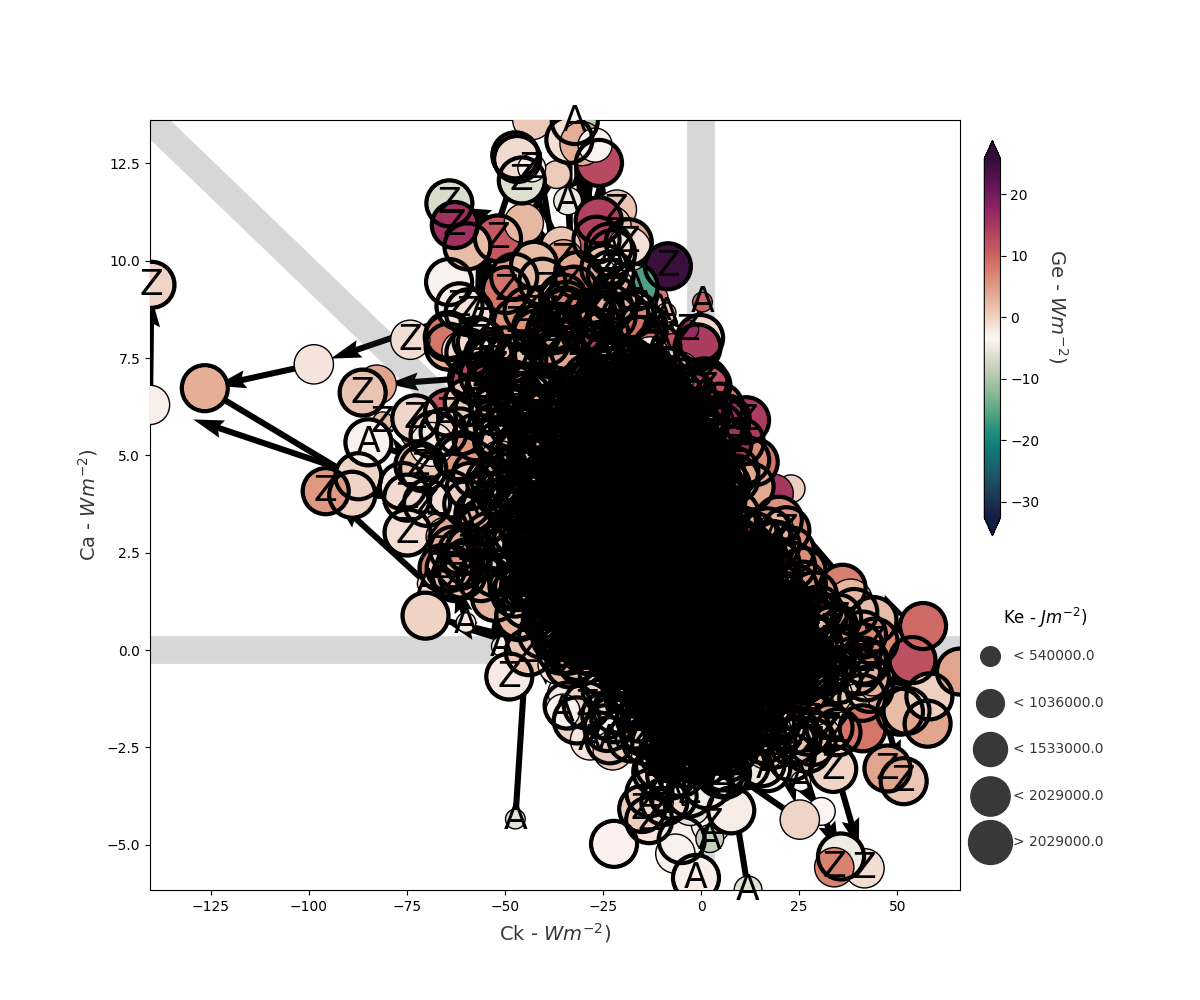
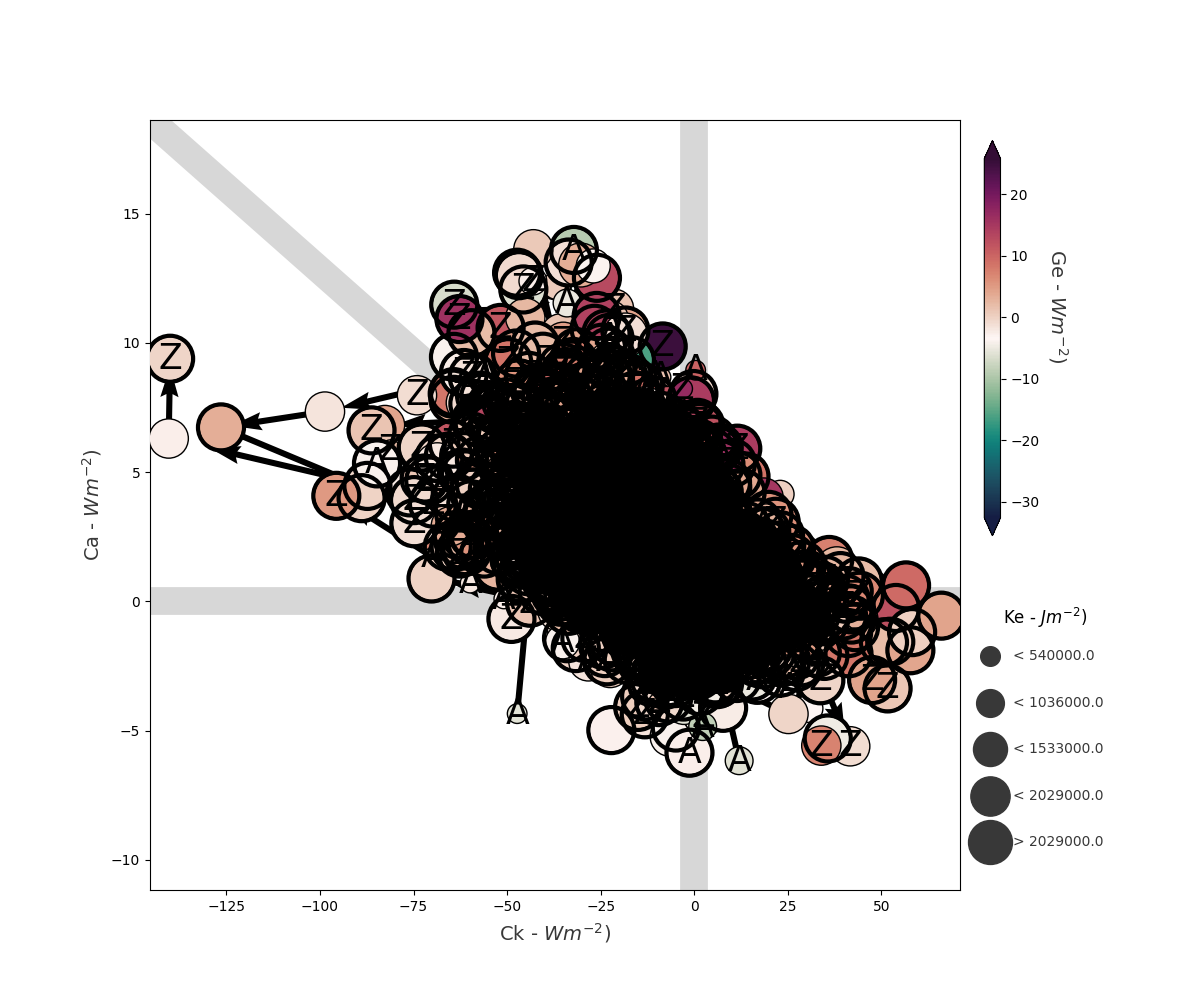
feat: plot lps for patterns

diff --git a/src_determine_patterns/plot_lps.py b/src_determine_patterns/plot_lps.py
@@ -6,13 +6,14 @@
 #    By: daniloceano <danilo.oceano@gmail.com>      +#+  +:+       +#+         #
 #                                                 +#+#+#+#+#+   +#+            #
 #    Created: 2024/02/27 17:45:49 by daniloceano       #+#    #+#              #
-#    Updated: 2024/03/01 11:50:52 by daniloceano      ###   ########.fr        #
+#    Updated: 2024/03/01 12:49:07 by daniloceano      ###   ########.fr        #
 #                                                                              #
 # **************************************************************************** #
 
 
 import os
 import pandas as pd
+from glob import glob
 import matplotlib.pyplot as plt
 from concurrent.futures import ProcessPoolExecutor, as_completed
 from tqdm import tqdm
@@ -35,6 +36,20 @@ def read_life_cycles(base_path):
                 print(f"Error processing {filename}: {e}")
     
     return systems_energetics
+
+def read_patterns(patterns_by_life_cycle_paths):
+    """
+    Reads all CSV files in the specified directory and collects DataFrame for each system.
+    """
+    patterns_energetics = {}
+    for directory in patterns_by_life_cycle_paths:
+        life_cycle_type = os.path.basename(directory)
+        patterns = glob(f'{directory}/*')
+        for pattern in patterns:
+            df = pd.read_csv(pattern)
+            cluster = os.path.basename(pattern).split('_')[1]
+            patterns_energetics[f"{life_cycle_type}_{cluster}"] = df
+    return patterns_energetics
 
 def plot_system(lps, df):
     """
@@ -64,18 +79,14 @@ def determine_global_limits(systems_energetics):
         size_min = min(size_min, df['Ke'].min())
         size_max = max(size_max, df['Ke'].max())
 
-    return [x_min, x_max], [y_min, y_max], [color_min, color_max], [size_min, size_max]
+    return [x_min - 5, x_max + 5], [y_min - 5, y_max + 5], [color_min, color_max], [size_min, size_max]
 
-if __name__ == "__main__":
-    base_path = '../database_energy_by_periods'
-    output_directory = '../figures_lps/'
-    os.makedirs(output_directory, exist_ok=True)
+def plot_all_systems(base_path, output_directory):
+    # Read the energetics data for all systems
+    systems_energetics = read_life_cycles(base_path)
 
     # Initialize the Lorenz Phase Space plotter
     lps = Visualizer(LPS_type='mixed', zoom=False)
-
-    # Read the energetics data for all systems
-    systems_energetics = read_life_cycles(base_path)
 
     # Plot each system onto the Lorenz Phase Space diagram
     for system_id, df in tqdm(systems_energetics.items(), desc="Plotting systems"):
@@ -116,3 +127,118 @@ if __name__ == "__main__":
     plt.savefig(plot_path)
     plt.close()
     print(f"Final plot saved to {plot_path}")
+
+def plot_all_patterns(base_path, output_directory):
+    # Read the energetics data for patterns
+    patterns_path = "../csv_patterns/"
+    patterns_by_life_cycle_paths = glob(f'{patterns_path}/*')
+
+    patterns_energetics = read_patterns(patterns_by_life_cycle_paths)
+
+    # Initialize the Lorenz Phase Space plotter
+    lps = Visualizer(LPS_type='mixed', zoom=False)
+
+    # Plot each system onto the Lorenz Phase Space diagram
+    for system_id, df in tqdm(patterns_energetics.items(), desc="Plotting systems"):
+        plot_system(lps, df)
+
+    # Save the final plot
+    plot_filename = 'lps_all_patterns.png'
+    plot_path = os.path.join(output_directory, plot_filename)
+    plt.savefig(plot_path)
+    plt.close()
+    print(f"Final plot saved to {plot_path}")
+
+    # Determine global limits
+    x_limits, y_limits, color_limits, marker_limits = determine_global_limits(patterns_energetics)
+
+    # Initialize Lorenz Phase Space with dynamic limits and zoom enabled
+    lps = Visualizer(
+        LPS_type='mixed',
+        zoom=True,
+        x_limits=x_limits,
+        y_limits=y_limits,
+        color_limits=color_limits,
+        marker_limits=marker_limits
+    )
+
+    # Plot each system onto the Lorenz Phase Space diagram
+    for species, df in tqdm(patterns_energetics.items(), desc="Plotting systems"):
+        print(f"Plotting {species}")
+        lps.plot_data(
+            x_axis=df['Ck'],
+            y_axis=df['Ca'],
+            marker_color=df['Ge'],
+            marker_size=df['Ke']
+        )
+
+    # Save the final plot
+    plot_filename = 'lps_all_patterns_zoom.png'
+    plot_path = os.path.join(output_directory, plot_filename)
+    plt.savefig(plot_path)
+    plt.close()
+    print(f"Final plot saved to {plot_path}")
+
+def plot_clusters(base_path, output_directory):
+    # Read the energetics data for patterns
+    patterns_path = "../csv_patterns/"
+    patterns_by_life_cycle_paths = glob(f'{patterns_path}/*')
+
+    for directory in patterns_by_life_cycle_paths:
+        life_cycle_type = os.path.basename(directory)
+        patterns = glob(f'{directory}/*')
+
+        patterns_energetics = {}
+
+        for pattern in patterns:
+            df = pd.read_csv(pattern)
+            cluster = os.path.basename(pattern).split('_')[1]
+            patterns_energetics[cluster] = df
+
+        # Determine global limits
+        x_limits, y_limits, color_limits, marker_limits = determine_global_limits(patterns_energetics)
+
+        # Initialize the Lorenz Phase Space plotter with dynamic limits and zoom enabled
+        lps = Visualizer(
+            LPS_type='mixed',
+            zoom=True,
+            x_limits=x_limits,
+            y_limits=y_limits,
+            color_limits=color_limits,
+            marker_limits=marker_limits
+        )
+
+        # Plot each system onto the Lorenz Phase Space diagram
+        for cluster, df in patterns_energetics.items():
+            plot_system(lps, df)
+
+        title = life_cycle_type.replace(
+            "Ic", "Incipient").replace(
+            "It", "Intensification").replace(
+            "M", "Mature").replace(
+            "D", "Decay").replace(
+            "It2", "Intensification 2").replace(
+            "M2", "Mature 2").replace(
+            "D2", "Decay 2")
+        plt.title(f"Life cycle type: {title}")
+
+        # Save the final plot
+        plot_filename = f'lps_{life_cycle_type}.png'
+        plot_path = os.path.join(output_directory, plot_filename)
+        plt.savefig(plot_path)
+        plt.close()
+        print(f"Final plot saved to {plot_path}")
+
+if __name__ == "__main__":
+    base_path = '../csv_database_energy_by_periods'
+    output_directory = '../figures_lps/'
+    os.makedirs(output_directory, exist_ok=True)
+
+    # First: plot all systems
+    # plot_all_systems(base_path, output_directory)
+
+    # Now, plot just the patterns 
+    # plot_all_patterns(base_path, output_directory)
+
+    # Finally, plot clusters for each pattern in distinct plots
+    plot_clusters(base_path, output_directory)
